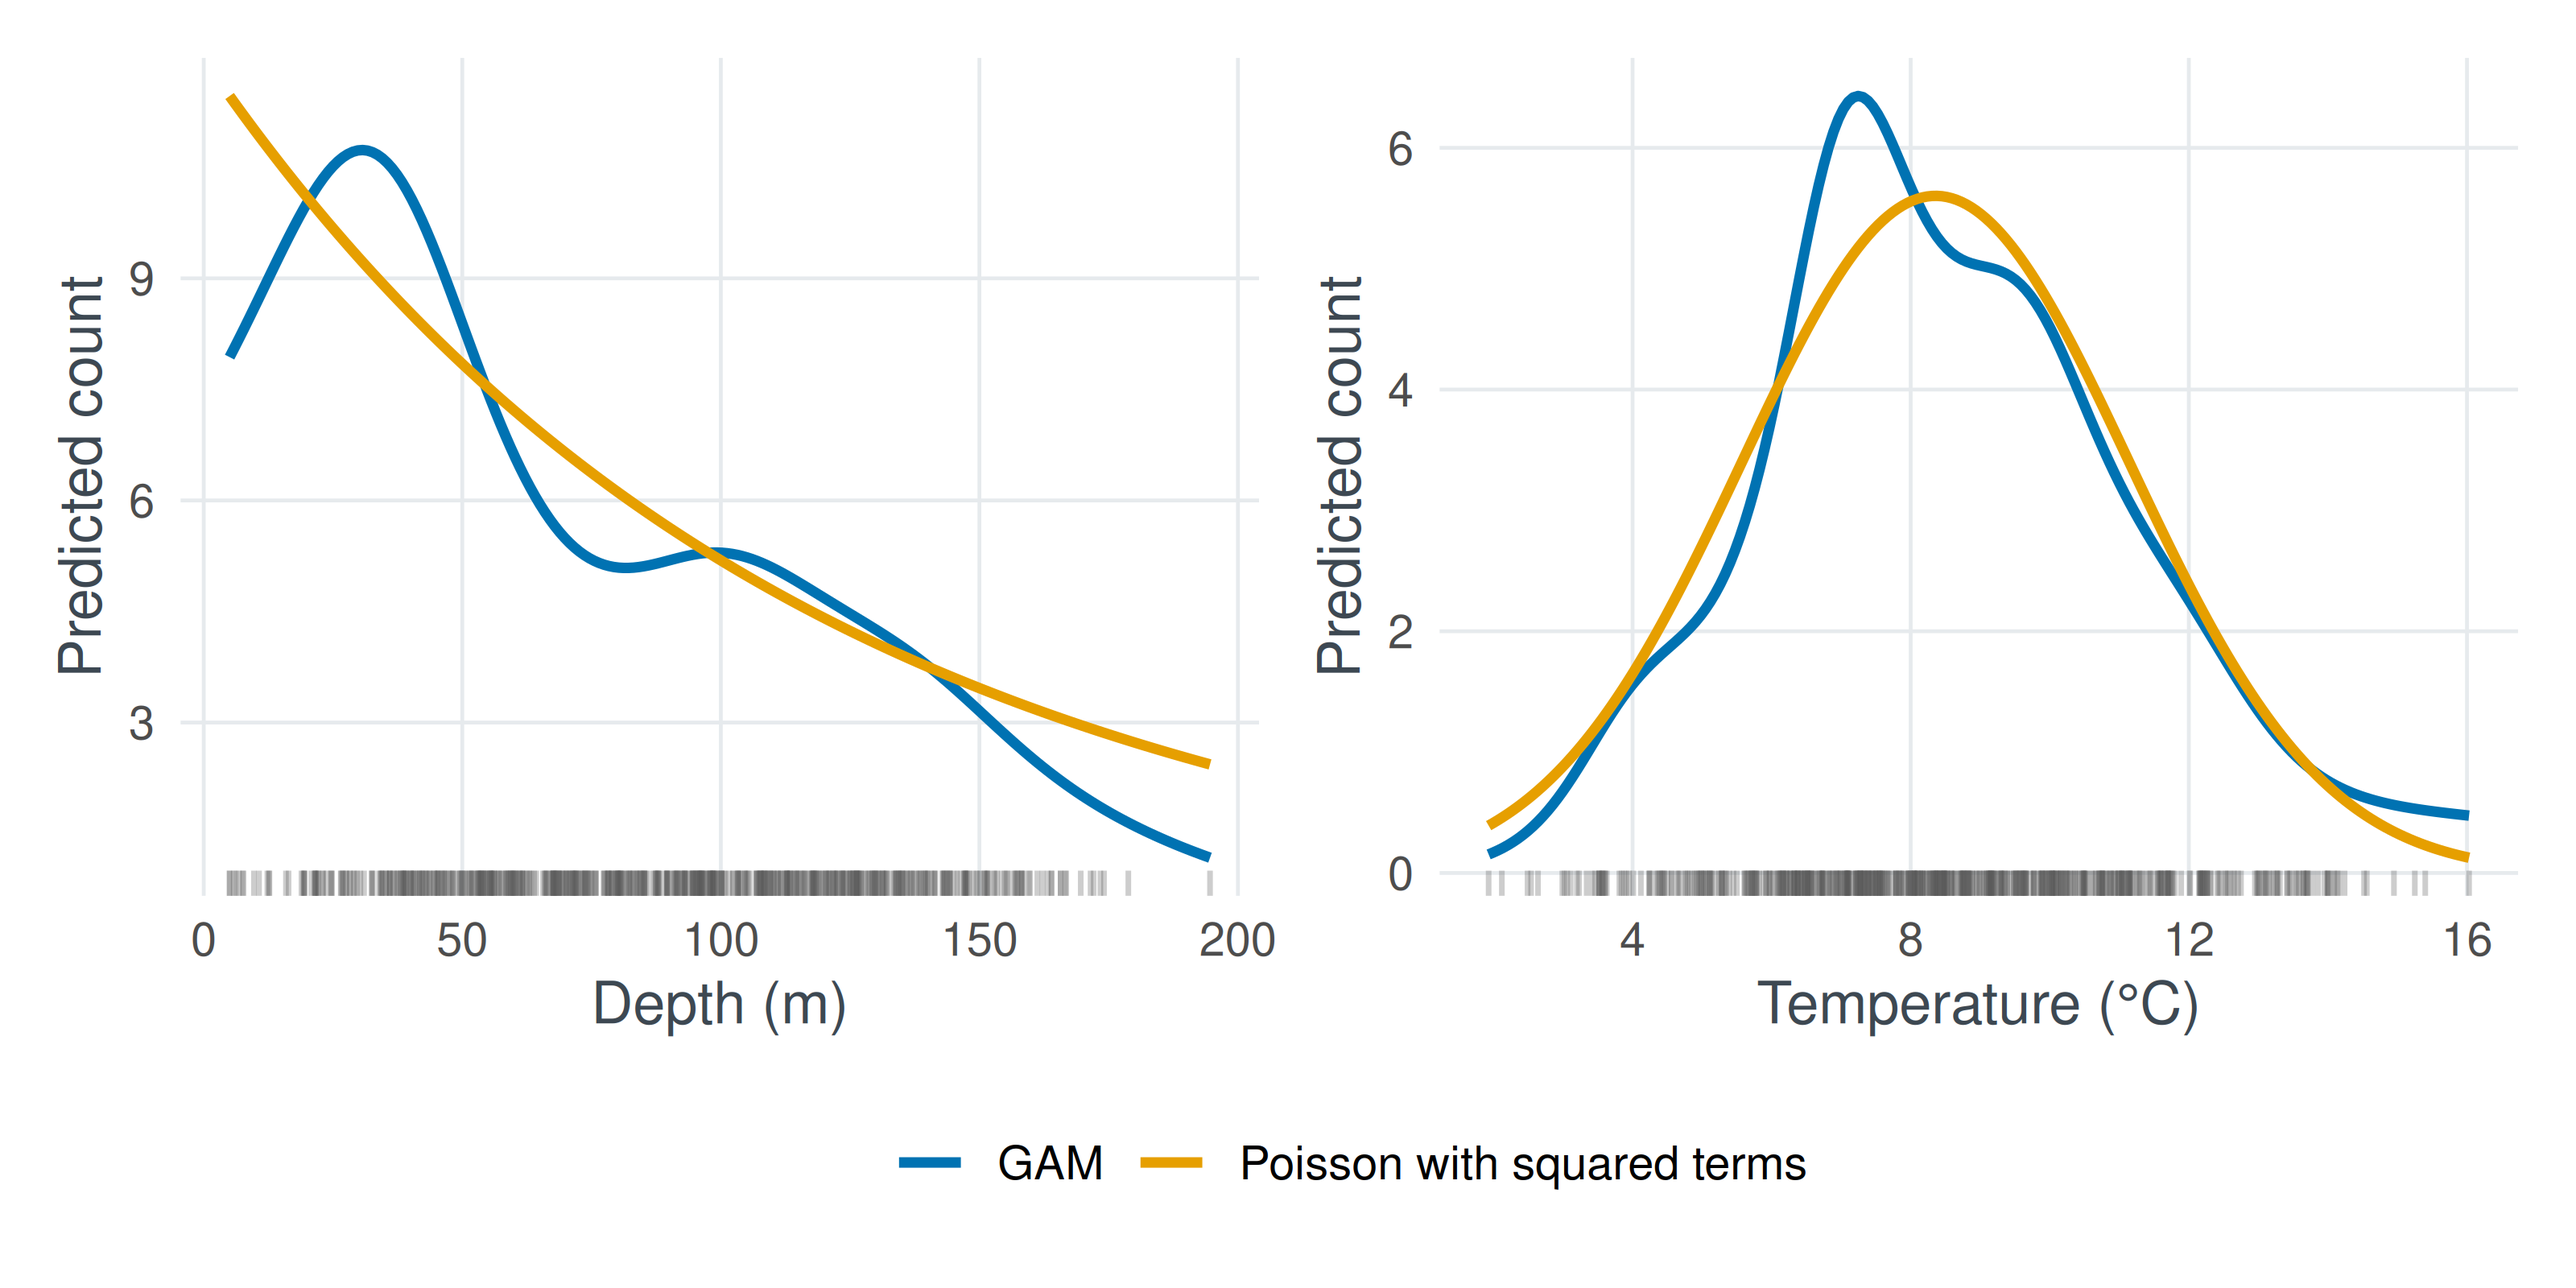
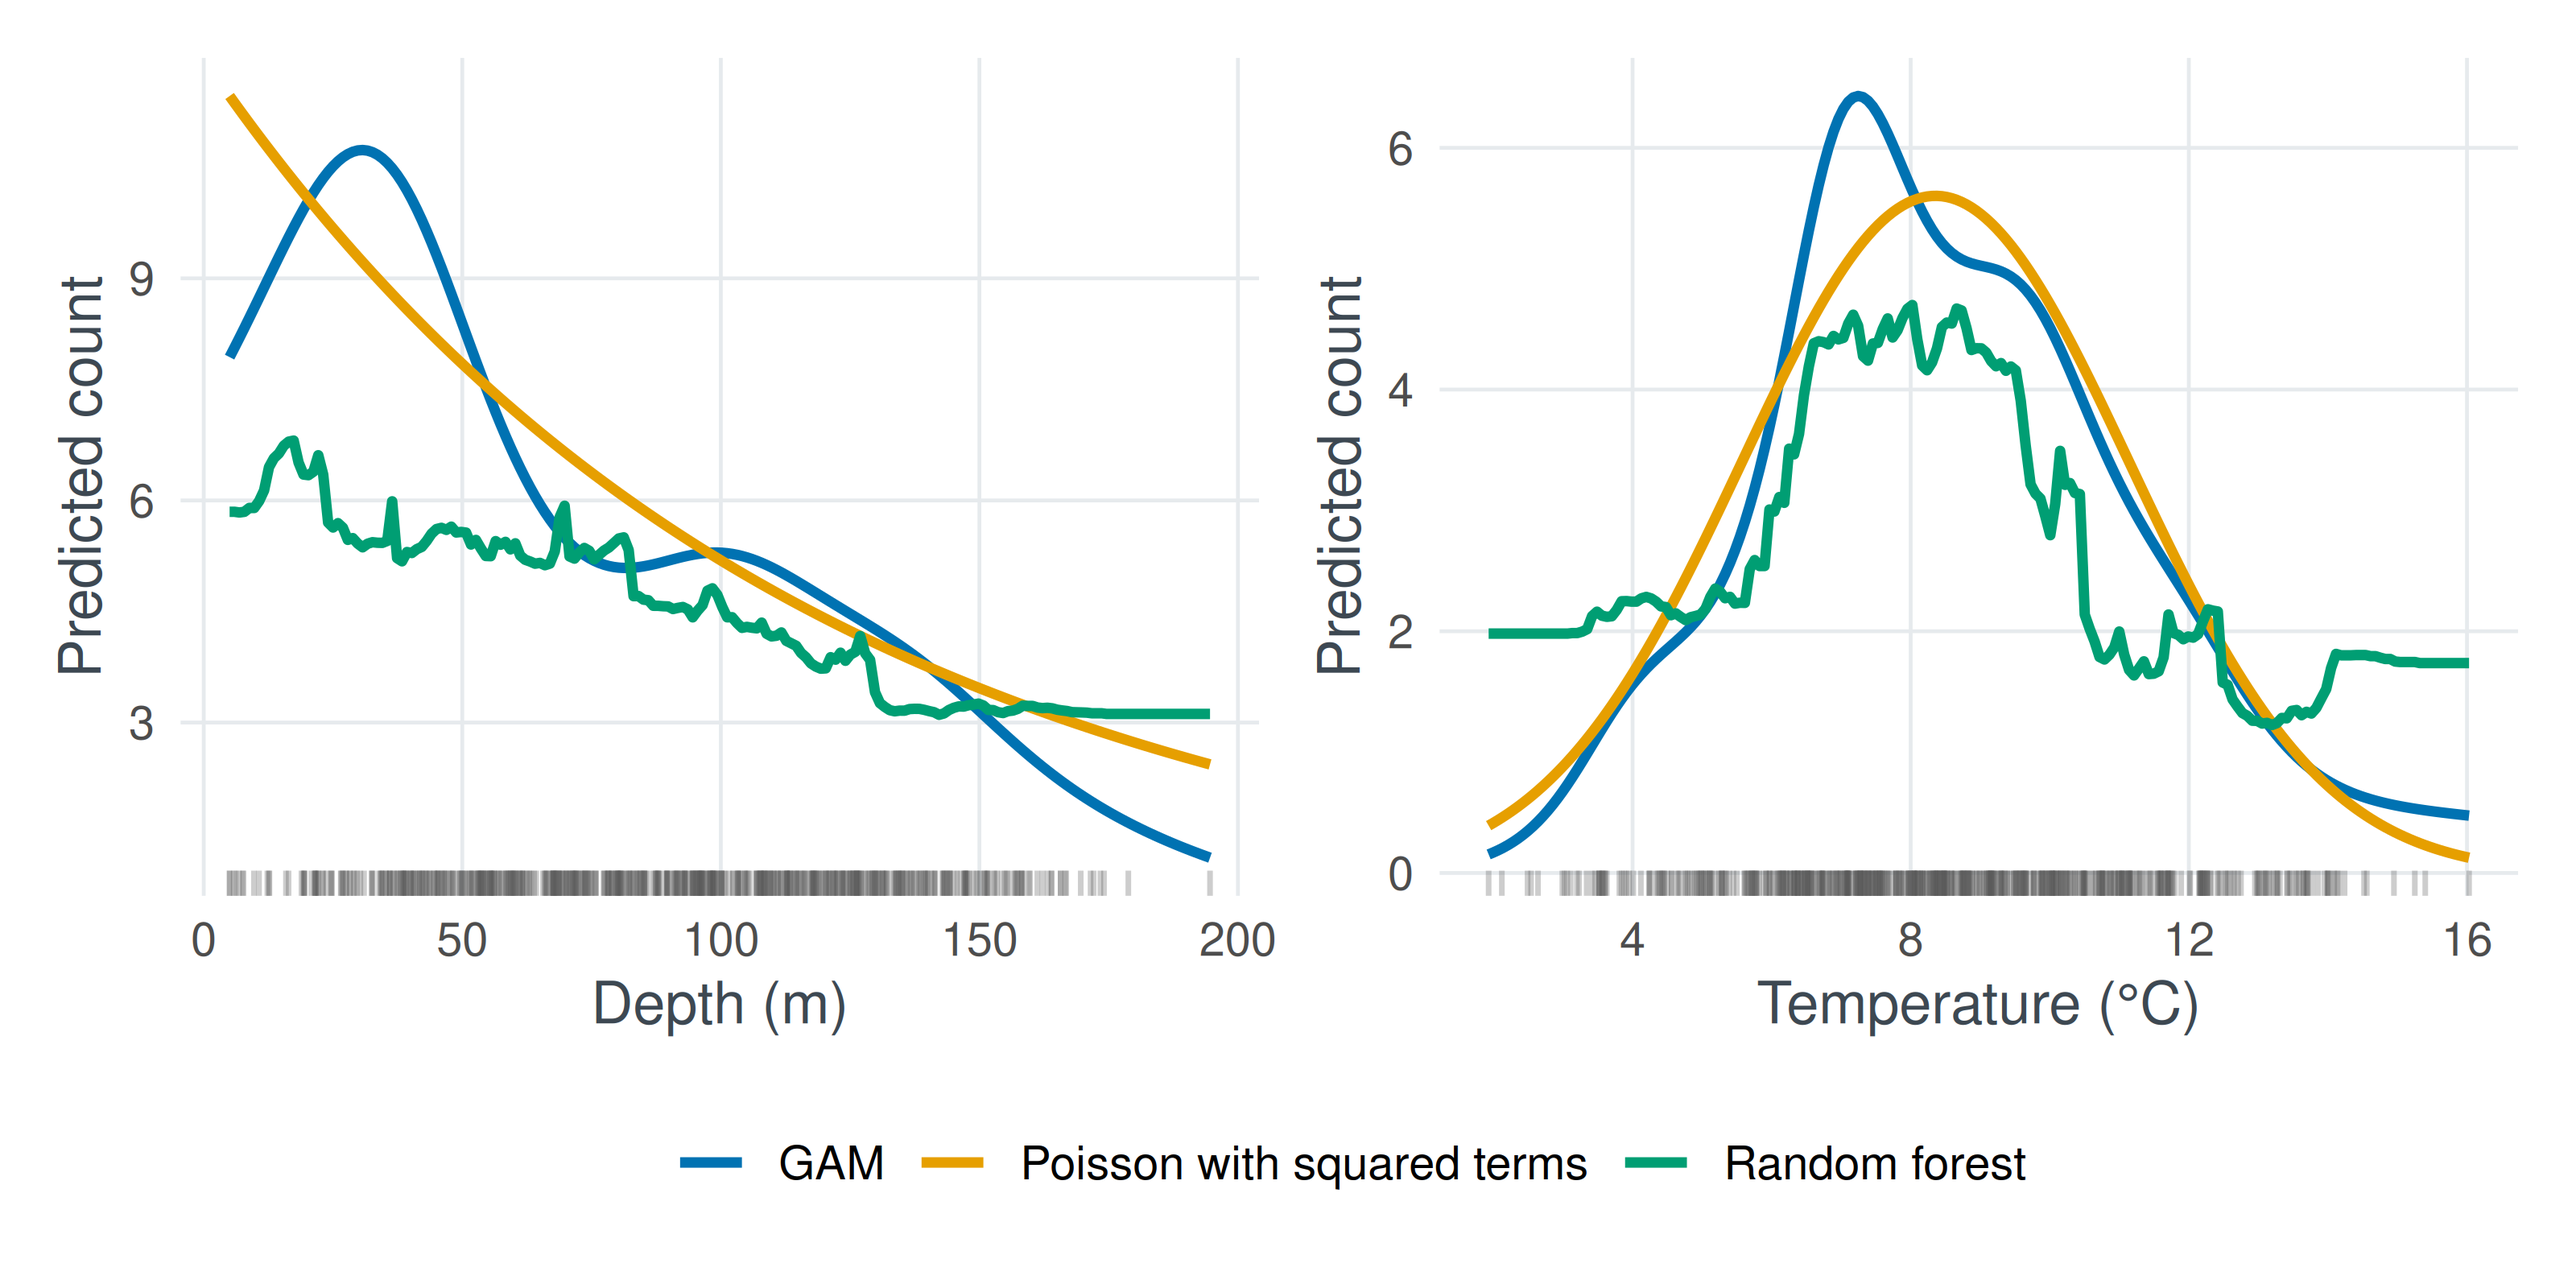
Lead the linearity page with what machine learning drops
Linearity is now presented as an assumption of linear models, which
trees, random forests and boosting do not make. A random forest joins
the comparison: it fits its own stations far better than the linear
models, scores about the same on new sites, and puts depth's peak in
shallow water as the GAM does. The GAM stays as the flexible model whose
curves can be read; the effective degrees of freedom are dropped. The
overview and two cross-references follow.

Claude-Session: https://claude.ai/code/session_016ezErpkBH4UddzozFWHPPR

diff --git a/.claude/curriculum.md b/.claude/curriculum.md
@@ -172,9 +172,13 @@ it does not.
 - Material earlier sections now teach is cut, not repeated: pseudo-replication and the
   split by site (§2), overdispersion and the negative binomial (§3), Poisson standard
   errors that are too small (§4), random against grouped cross-validation (§5).
-- *Linearity and nonlinearity* introduces the GAM (smooth bumps with a penalty on
-  bending, tied to §5's ridge penalty); the fitted curves are read before the truth is
-  shown. *Distributional assumptions* centres on simulating from the fitted model.
+- *Linearity and nonlinearity* is framed for a machine-learning course: linearity is an
+  assumption of linear models, which trees and forests drop. It compares two Poisson
+  models with a random forest and a GAM, which drops the straight lines but keeps one
+  readable curve per input (smooth bumps with a penalty on bending, tied to §5's
+  penalty; no effective degrees of freedom). The fitted curves are read before the
+  truth is shown. §10's GAM pages still use effective degrees of freedom, so §10's
+  revision must explain them where it uses them, or drop them. *Distributional assumptions* centres on simulating from the fitted model.
   *Independence* shrinks to effective sample size and its cost to standard errors.
   *Spatial and temporal dependence* compares cross-validation by site against spatial
   blocks and diagnoses with a residual map, not Moran's I. *Extrapolation* replaces
@@ -193,8 +197,9 @@ Use R², or the same test set for both. §2's leakage page found it first;
 with spatial blocks, says so in the prose and repeats it in its Key points.
 
 **A better fit is not a more correct model.** `linearity-and-nonlinearity.qmd` turns on this:
-the GAM fits its own stations best of three Poisson models, predicts new sites no worse,
-and has the most wrong depth response, because depth is confounded with position, which
+the random forest fits its own stations far better than the other three models, all four
+predict new sites within a standard error of each other, and both the forest and the GAM
+put depth's peak in shallow water, because depth is confounded with position, which
 carries an unmodelled spatial field. Flexibility buys shape, not identifiability.
 
 ### Uses of `coastal-survey-truth.csv`
